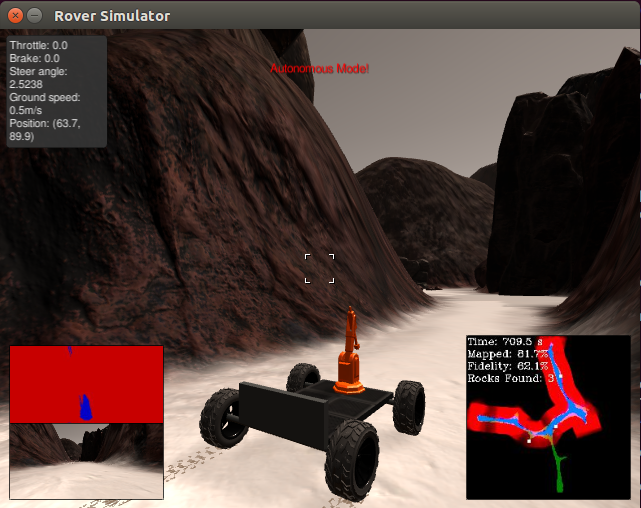
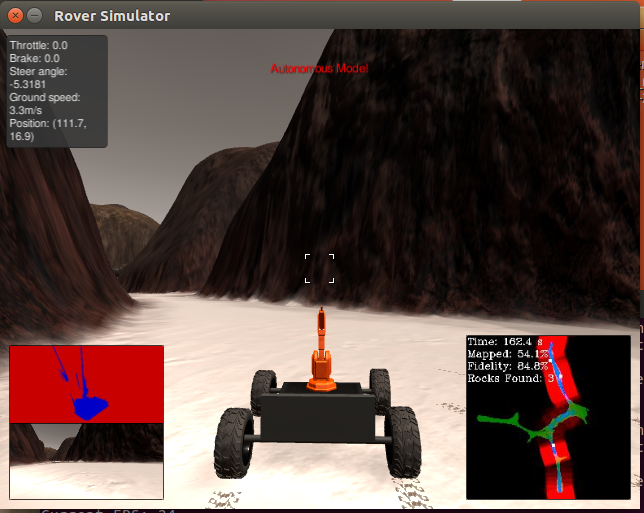
better fidelity by limiting picture to +-0.5 degree of horizontal.

diff --git a/code/perception.py b/code/perception.py
@@ -94,6 +94,9 @@ def perspect_transform(img, src, dst):
     
     return warped
 
+#figure out if rover is level enough to use the picture for mapping
+def is_level(Rover):
+    return ( Rover.roll > 359.5 or Rover.roll < 0.5 ) and ( Rover.pitch > 359.5 or Rover.pitch < 0.5 )
 
 # Apply the above functions in succession and update the Rover state accordingly
 def perception_step(Rover):
@@ -144,9 +147,10 @@ def perception_step(Rover):
                                            Rover.yaw,
                                            Rover.worldmap.shape[0],10)
     # 7) Update Rover worldmap (to be displayed on right side of screen)
-    Rover.worldmap[y_pix_world_obst, x_pix_world_obst, 0] += 2
-    Rover.worldmap[y_pix_world_rock, x_pix_world_rock, 1] += 2
-    Rover.worldmap[y_pix_world_nav , x_pix_world_nav , 2] += 2
+    if is_level(Rover):
+        Rover.worldmap[y_pix_world_obst, x_pix_world_obst, 0] += 2
+        Rover.worldmap[y_pix_world_rock, x_pix_world_rock, 1] += 2
+        Rover.worldmap[y_pix_world_nav , x_pix_world_nav , 2] += 2
 
     # 8) Convert rover-centric pixel positions to polar coordinates
     # Update Rover pixel distances and angles

diff --git a/code/decision.py b/code/decision.py
@@ -18,7 +18,7 @@ def decision_step(Rover):
             if len(Rover.nav_angles) >= Rover.stop_forward:  
                 # If mode is forward, navigable terrain looks good 
                 # and velocity is below max, then throttle 
-                Rover.max_vel = 1.5 * np.mean(Rover.nav_dist)/100
+                Rover.max_vel = 4 * np.mean(Rover.nav_dist)/100
                 if Rover.vel < Rover.max_vel:
                     # Set throttle value to throttle setting
                     Rover.throttle = (Rover.max_vel - Rover.vel)
@@ -26,7 +26,7 @@ def decision_step(Rover):
                     Rover.throttle = 0
                 Rover.brake = 0
                 # Set steering to average angle clipped to the range +/- 15
-                Rover.steer = np.clip(np.mean(Rover.nav_angles * 180/np.pi)-1.5, -15, 15)
+                Rover.steer = np.clip(np.mean(Rover.nav_angles * 180/np.pi)-2.5, -15, 15)
             # If there's a lack of navigable terrain pixels then go to 'stop' mode
             elif len(Rover.nav_angles) < Rover.stop_forward:
                     # Set mode to "stop" and hit the brakes!

diff --git a/writeup.md b/writeup.md
@@ -39,15 +39,14 @@ I populated the process_image function with the methods developed in the noteboo
 #### 1. Fill in the `perception_step()` (at the bottom of the `perception.py` script) and `decision_step()` (in `decision.py`) functions in the autonomous mapping scripts and an explanation is provided in the writeup of how and why these functions were modified as they were.
 
 I started out with the default `percept_step` and `decision_step` and experimented with speed, throttle and steer parameters to speed up mapping and not lose map fidelity. Adjusting the threshold parameters was also necessary to get to the best results.
-I moderated the speed proportional to the mean distance of the navigatable space. The throttle is then set to the difference between desired and actual speed. 
+I moderated the speed proportional to the mean distance of the navigatable spacein front of the rover. The throttle is then set to the difference between desired and actual speed. 
 
 #### 2. Launching in autonomous mode your rover can navigate and map autonomously.  Explain your results and how you might improve them in your writeup.  
 
 I used a slight 1.5 degree bias while steering in forward motion to make the robot go mostly right and thereby explore more of the terrain.
-I tried to regulate the rover speed by taking into account the average open distance in front of the robot. Unfortunately this in itself does not allow too much of an increase in mapping without the map fidelity suffering. 
+I tried to regulate the rover speed by taking into account the average open distance in front of the robot. This achieved a much higher speed, but it became necessary to filter only level images to build the map. Allowing only images that are within +/- 0.5 degree of horizontal greatly improved fidelity to >80%. 
 
-Improvements:
-* currently I can't increase the rover speed more or I lose map fidelity. To further increase speed I need to use the pitch angle to map only around neutral pitch
+Possible Improvements:
 * when the rover is in front of a narrow obstacle it sometimes gets stuck because the average distance and angles do not see the obstacle. One improvement I would try is to use a more narrow set of the angles and distances to avoid this situation.
 
 
